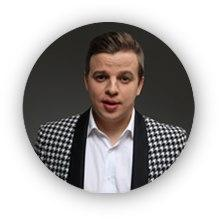
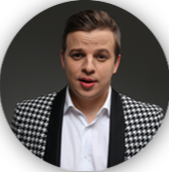
team

diff --git a/client/src/components/OneProducer/OneProducer.jsx b/client/src/components/OneProducer/OneProducer.jsx
@@ -2,30 +2,40 @@ import React, { useEffect } from 'react'
 import backGroundPro from '../image/producer.png'
 import photo from '../image/photo.jpg'
 import style from './style.module.css'
+import backgr from '../image/backgr.png'
+import logotype from '../image/logotype.png'
 import { useDispatch, useSelector } from 'react-redux'
 import { getProducer } from '../redux/ac/ac'
 
 function OneProducer() {
- const producerList = useSelector(state=>state.producer)
- const dispatch = useDispatch()
+  const producerList = useSelector(state => state.producer)
+  const dispatch = useDispatch()
 
- useEffect(() => {
-  dispatch(getProducer())
-}, [])
+  useEffect(() => {
+    dispatch(getProducer())
+  }, [])
 
   return (
-    <>
-      { producerList.map(el=>(
-        <div className={style.OneProducer} key={el.id}>
+    <div className={style.main}>
+      {producerList.map(el => (
+        <div className={style.oneProducer} key={el.id}>
+          <img className={style.bg} src={backgr} alt="backGroundPro" />
+
+          <div className={style.content}>
+          <div className={style.photo}>
+            <img src="https://via.placeholder.com/150" class={style.placeholder} />
+            <img src={el.path_img} alt="photoProducer" class={style.img} />
+
+          </div>
           <p className={style.nameProducer}>{el.name}</p>
-          <img src={el.photo} className={style.photo} alt="photoProducer" />
-          <img src={backGroundPro} alt="backGroundPro" />
+<img src={logotype} alt="" className={style.logo} />
+          </div>
         </div>
       ))
       }
 
 
-    </>
+    </div>
   )
 }
 

diff --git a/client/src/components/OneProducer/style.module.css b/client/src/components/OneProducer/style.module.css
@@ -1,13 +1,20 @@
 .oneProducer{
-  width: 199px;
-height: 489px;
-position: relative;
+  width: calc(100% / 12 * 3 - 40px);
+  margin: 0 20px 20px 20px;
+  position: relative;
+  min-height: 500px;
 }
 .backGroundPro{
   position: relative;
 }
+.main{
+display: flex;
+flex-wrap: wrap;
+width: calc(100%+40px);
+margin: 0 -20px;
+}
 
-.nameProducer{
+/* .nameProducer{
   padding-top: 450px;
   padding-left: 60px;
   width: 80px;
@@ -20,14 +27,55 @@ position: relative;
   color: #ffffff;
   position: absolute;
 
+} */
+
+.nameProducer{
+  padding-top: 20px;
+  font-family: 'Bebas Neue';
+  font-size: 22.4px;
+  line-height: 31px;
+  font-weight: 400;
+  text-transform: uppercase;
+  text-shadow: 1px 2px 0px rgba(0,0,0,0.85);
+  color: #ffffff;
+
 }
 .photo{
-  
-  border-radius: 100%;
+  border-radius: 50%;
+  overflow: hidden;
+  width: 100%;
+  position: relative;
+}
+
+.placeholder {
+  opacity: 0;
+  width: 100%;
+  height: auto;
+}
+.photo .img {
   object-fit: cover;
+  width: 100%;
+  height: 100%;
   position: absolute;
-  top: 408px;
-  left: 59px;
-  width: 174px;
-  height: 172px;
+  top: 0;
+  left: 0;
+}
+
+.bg {
+  position: absolute;
+  width: 100%;
+  height: 100%;
+}
+
+.content {
+  position: relative;
+  padding: 20px 40px;
+  display: flex;
+  flex-direction: column;
+  align-items: center;
+  height: 100%;
+}
+
+.logo {
+  margin-top: auto;
 }

diff --git a/server/db/seeders/20211122112420-Team.js b/server/db/seeders/20211122112420-Team.js
@@ -15,22 +15,22 @@ module.exports = {
       {
         group: 'продюсеры',
         name: 'АСКАТ ТАБАЛДИЕВ',
-        path_img: "./images/2.jpg"
+        path_img: "http://localhost:3001/images/2.jpg"
       },
       {
         group: 'продюсеры',
         name: 'ДАНИЯР БОЛОТБЕКОВ',
-        path_img: "./images/1.jpg"
+        path_img: "http://localhost:3001/images/1.jpg"
       },
       {
         group: 'продюсеры',
         name: 'РОСТИСТЛАВ ЯЩЕНКО',
-        path_img: "./images/3.jpg"
+        path_img: "http://localhost:3001/images/3.jpg"
       },
       {
         group: 'продюсеры',
         name: 'БАХТИЯР МАТЯНЬЮ',
-        path_img: "./images/4.jpg"
+        path_img: "http://localhost:3001/images/4.jpg"
       },
 
     ], {});

diff --git a/client/src/components/redux/ac/ac.js b/client/src/components/redux/ac/ac.js
@@ -57,7 +57,7 @@ export const getWords = (value) => {
 }
 
 export const getProducer = () => async (dispatch) => {
-  const allProducers = (await axios.get('http://localhost:3001/listproducer'))
+  const allProducers = (await axios.get('/team'))
   dispatch({
     type: GET_PRODUCER,
     payload:allProducers.data

diff --git a/client/src/App.module.css b/client/src/App.module.css
@@ -1,7 +1,7 @@
 .AppWrapper {
     width: 100%;
     height: 100%;
-    max-height: 1200px;
+    min-height: 100vh;
     color: white;
     background: url('./components/image/BackgroundMain.png') no-repeat;
     -moz-background-size: 100%; /* Firefox 3.6+ */

diff --git a/client/src/components/Team/Team.jsx b/client/src/components/Team/Team.jsx
@@ -3,7 +3,7 @@ import OneProducer from '../OneProducer/OneProducer'
 import style from './style.module.css'
 const Team = () => {
   return (
-    <div className={style.teamWrapper}>
+    <div>
       <h1>team</h1>
       <OneProducer/>
     </div>

diff --git a/client/src/App.js b/client/src/App.js
@@ -7,7 +7,8 @@ function App() {
     return (
         <div className={style.AppWrapper}>
             <NavBar />
-            <MainRouter></MainRouter>
+            <MainRouter/>
+            {/* </MainRouter> */}
         </div>
     )
 }

diff --git a/client/src/components/MainRouter/style.module.css b/client/src/components/MainRouter/style.module.css
@@ -1,4 +1,6 @@
 .mainRouterWrapper {
-    margin: 20px;
-    
+    margin: 0 auto;
+    max-width: 1400px;
+    padding: 20px;
+    min-height: calc(100% - 6vw);
 }

diff --git a/client/src/index.css b/client/src/index.css
@@ -1,6 +1,7 @@
 * {
     margin: 0px;
     padding: 0px;
+    box-sizing: border-box;
 }
 html {
     background-color: black;
